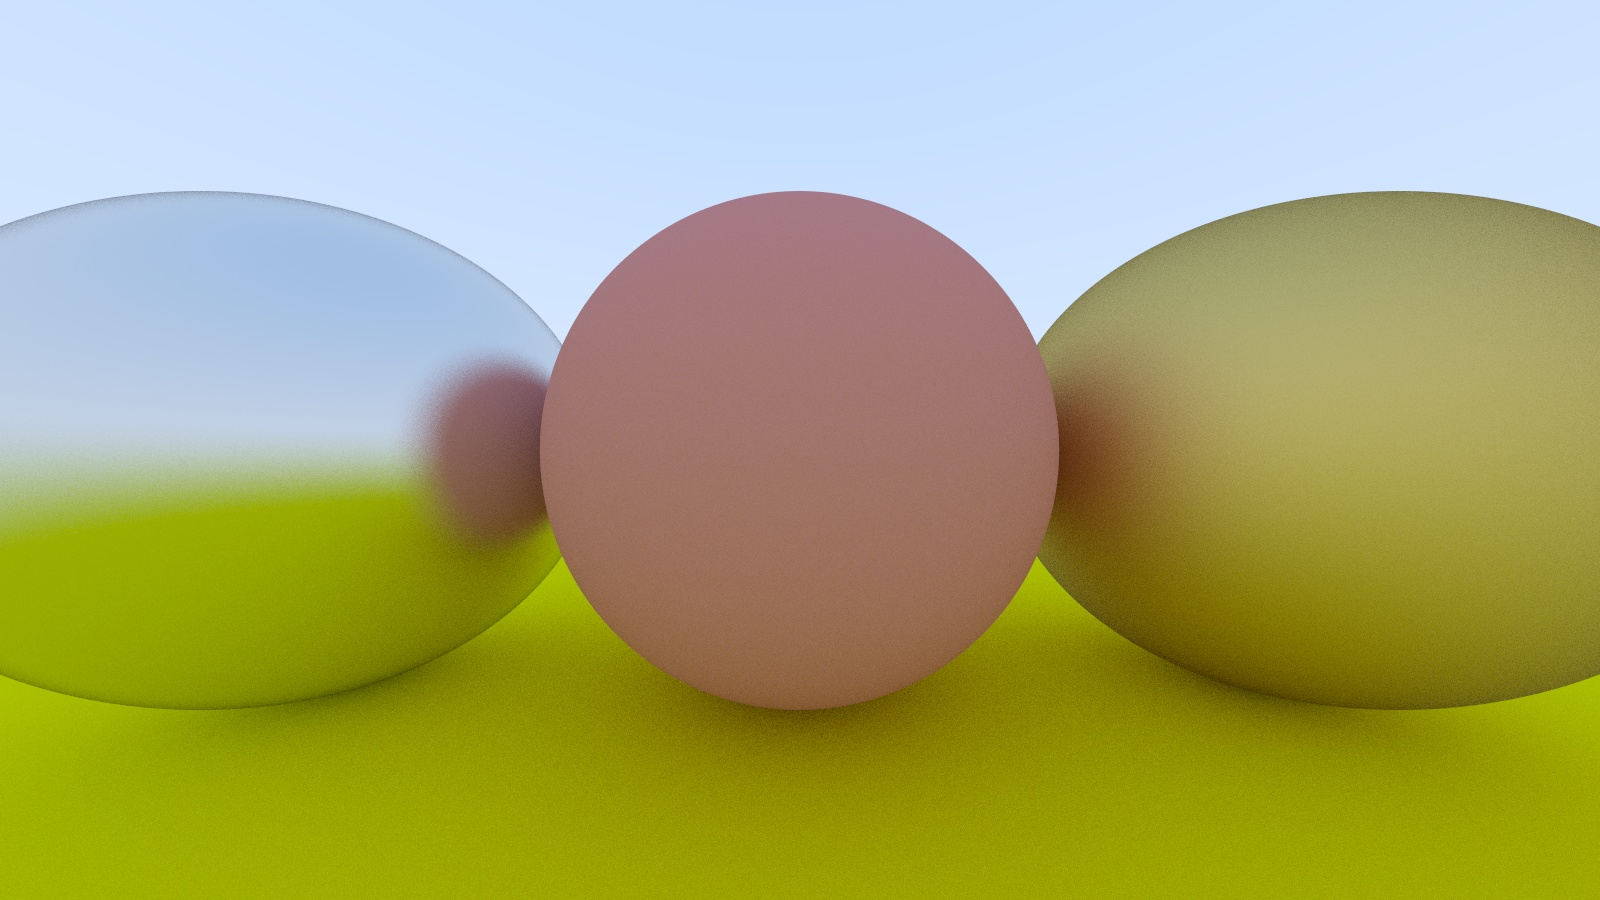
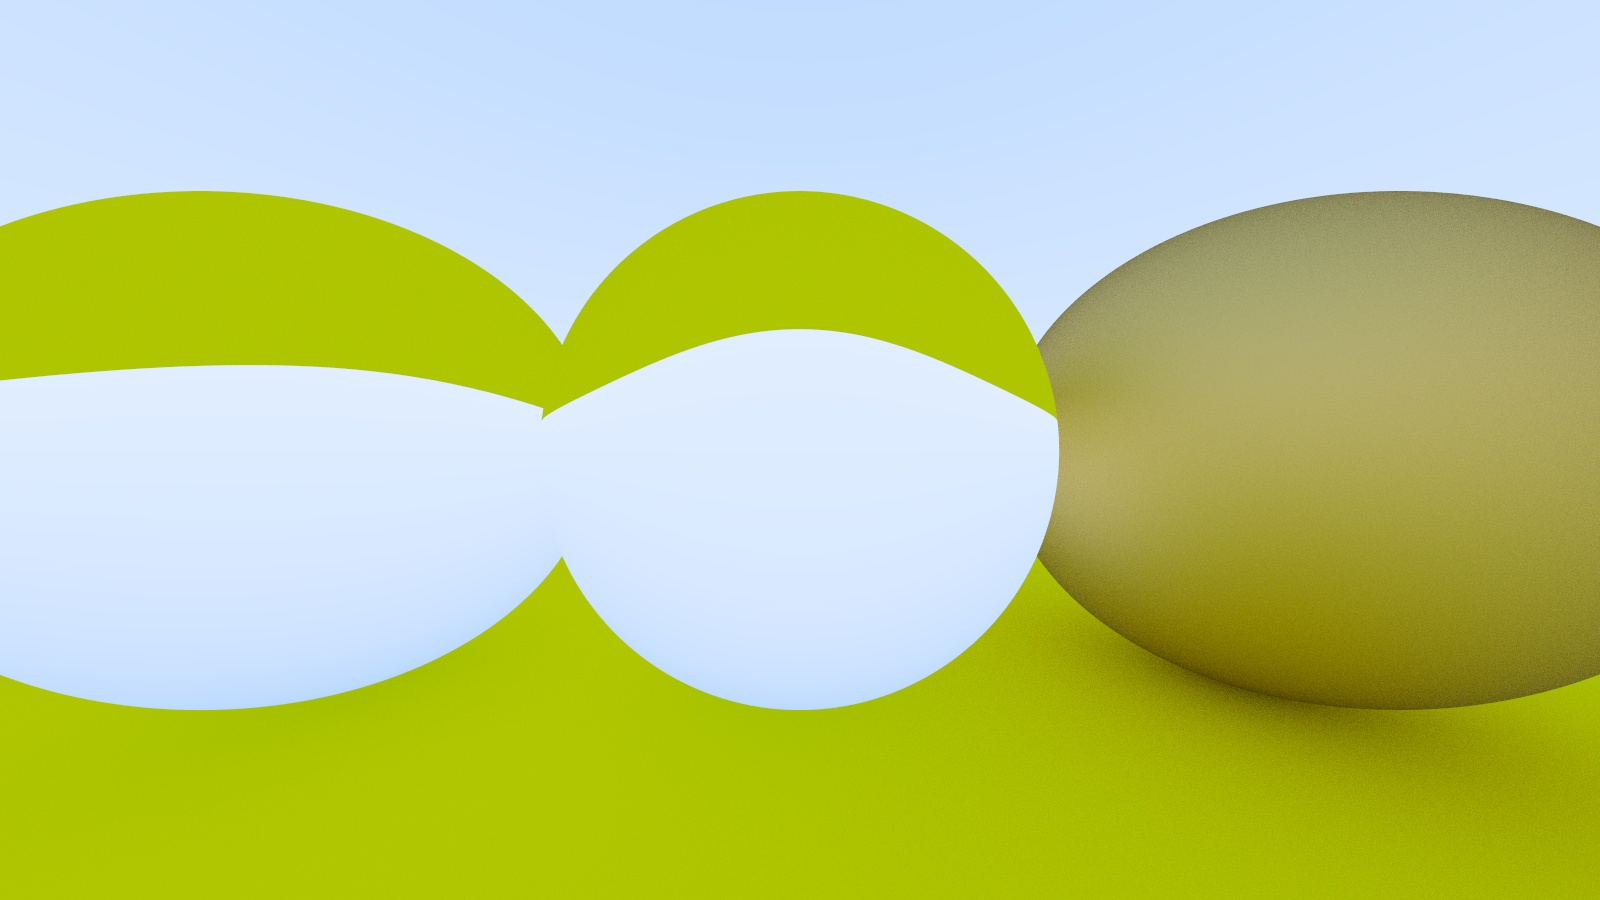
just to start 10.3 total internal reflection

diff --git a/include/material.h b/include/material.h
@@ -33,20 +33,6 @@ struct lambertian : public material {
     color albedo_;
 };
 
-lambertian::lambertian(const color &c) : albedo_{c} {}
-
-lambertian::~lambertian() {}
-
-color lambertian::albedo() const { return albedo_; }
-
-scatter_result_type lambertian::scatter(const ray &, const hit_record &rec) const {
-    vec scatter_direction = rec.normal() + random_in_unit_sphere().unit();
-    if (scatter_direction.near_zero()) {
-        scatter_direction = rec.normal();
-    }
-    return std::make_optional<std::pair<color, ray>>(std::make_pair(albedo(), ray{rec.p(), scatter_direction}));
-}
-
 struct metal : public material {
    public:
     metal(const color &a, double f = 1.0);
@@ -61,6 +47,33 @@ struct metal : public material {
     double fuzz_;
 };
 
+struct dielectric : public material {
+   public:
+    dielectric(double refraction);
+    virtual ~dielectric();
+
+    virtual scatter_result_type scatter(const ray &, const hit_record &rec) const override;
+
+   private:
+    double refraction_;
+};
+
+// Implementation
+
+lambertian::lambertian(const color &c) : albedo_{c} {}
+
+lambertian::~lambertian() {}
+
+color lambertian::albedo() const { return albedo_; }
+
+scatter_result_type lambertian::scatter(const ray &, const hit_record &rec) const {
+    vec scatter_direction = rec.normal() + random_in_unit_sphere().unit();
+    if (scatter_direction.near_zero()) {
+        scatter_direction = rec.normal();
+    }
+    return std::make_optional<std::pair<color, ray>>(std::make_pair(albedo(), ray{rec.p(), scatter_direction}));
+}
+
 metal::metal(const color &a, double f) : albedo_{a}, fuzz_{f} {}
 
 metal::~metal() {}
@@ -74,6 +87,16 @@ scatter_result_type metal::scatter(const ray &in, const hit_record &rec) const {
         return std::nullopt;
     }
     return std::make_optional<std::pair<color, ray>>(std::make_pair(albedo(), scattered));
+}
+
+dielectric::dielectric(double refraction) : refraction_{refraction} {}
+
+dielectric::~dielectric() {}
+
+scatter_result_type dielectric::scatter(const ray &in, const hit_record &rec) const {
+    double ratio = rec.front_face() ? (1.0 / refraction_) : refraction_;
+    vec refracted = refract(in.direction().unit(), rec.normal(), ratio);
+    return std::make_optional<std::pair<color, ray>>(std::make_pair(color{1.0, 1.0, 1.0}, ray{rec.p(), refracted}));
 }
 
 #endif  // MATERIAL_H_

diff --git a/include/progress_bar.h b/include/progress_bar.h
@@ -18,12 +18,23 @@ struct progress_bar {
     void complete();
 
    private:
-    std::string bar(int a, int b) {
-        return std::string(a, '*').append(std::string(b - a, ' '));
+    std::string to_2f(int x) {
+        std::string res = std::to_string(x / 10);
+        res.push_back('.');
+        res.push_back(static_cast<char>('0' + x % 10));
+        res.push_back('%');
+        if (res.size() < 6) {
+            res.append(std::string(6 - res.size(), ' '));
+        }
+        return res;
     }
 
-    double percentage(double a, double b) {
-        return 100.0 * a / b;
+    std::string bar(int a) {
+        return std::string(a, '*').append(std::string(bar_length - a, ' '));
+    }
+
+    int percentage(int a) {
+        return 1000 * a / num_;
     }
 
     const int bar_length = 100;
@@ -37,20 +48,14 @@ progress_bar::progress_bar(std::ostream& os, int num) : os_{os}, num_{num} { os_
 void progress_bar::output(int index) {
     using namespace std::chrono;
     using namespace std::chrono_literals;
-    os_.precision(2);
-    time_point begin = high_resolution_clock::now();
-    double per = percentage(num_ - index, num_);
-    int block = static_cast<int>(per);
-    os_ << '\r' << std::right << std::setw(4) << per << "% [" << bar(block, bar_length)
-        << "] current: " << num_ - index << '/' << num_ << std::flush;
-    time_point end = high_resolution_clock::now();
-    if (end - begin < 50ms) {
-        std::this_thread::sleep_for(50ms - (end - begin));
-    }
+
+    int per = percentage(num_ - index);
+    int block = static_cast<int>(1e-3 * per * bar_length);
+    os_ << '\r' << "[" << bar(block) << "] " << to_2f(per) << ' ' << num_ - index << '/' << num_ << std::flush;
 }
 
 void progress_bar::complete() {
-    os_ << "\rComplete! " << std::string(bar_length + 5, ' ') << std::endl;
+    os_ << "\rComplete!  " << std::string(bar_length + 2 * std::to_string(num_).length(), ' ') << std::endl;
 }
 
 #endif  // PROGRESS_BAR_H_

diff --git a/include/vec.h b/include/vec.h
@@ -55,6 +55,8 @@ vec random_in_hemisphere(const vec &v);
 
 vec reflect(const vec &v, const vec &n);
 
+vec refract(const vec &uv, const vec &n, double ratio);
+
 // Implementation
 
 inline vec::vec(double _x, double _y, double _z) : x_{_x}, y_{_y}, z_{_z} {}
@@ -192,6 +194,13 @@ inline vec random_in_hemisphere(const vec &normal) {
 
 inline vec reflect(const vec &v, const vec &n) {
     return v - (2 * v * n) * n;
+}
+
+inline vec refract(const vec &uv, const vec &n, double ratio) {
+    double cos_theta = std::min(-uv * n, 1.0);
+    vec r_vertical = ratio * (uv + cos_theta * n);
+    vec r_parallel = -std::sqrt(1 - r_vertical.length2()) * n;
+    return r_vertical + r_parallel;
 }
 
 #endif  // VEC_H_

diff --git a/src/main.cc b/src/main.cc
@@ -35,8 +35,8 @@ int main() {
 
     // Materials
     std::shared_ptr<lambertian> material_ground = std::make_shared<lambertian>(color{0.8, 0.8, 0.0});
-    std::shared_ptr<lambertian> material_center = std::make_shared<lambertian>(color{0.7, 0.3, 0.3});
-    std::shared_ptr<metal> material_left = std::make_shared<metal>(color{0.8, 0.8, 0.8}, 0.3);
+    std::shared_ptr<dielectric> material_center = std::make_shared<dielectric>(1.5);
+    std::shared_ptr<dielectric> material_left = std::make_shared<dielectric>(1.5);
     std::shared_ptr<metal> material_right = std::make_shared<metal>(color{0.8, 0.6, 0.2}, 1.0);
 
     // World
